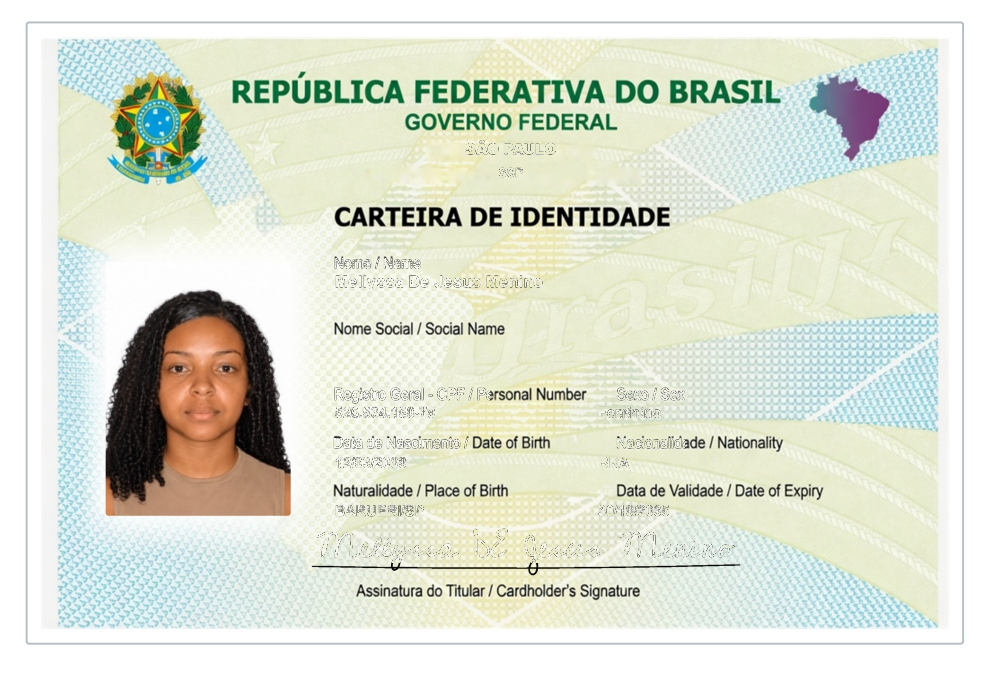
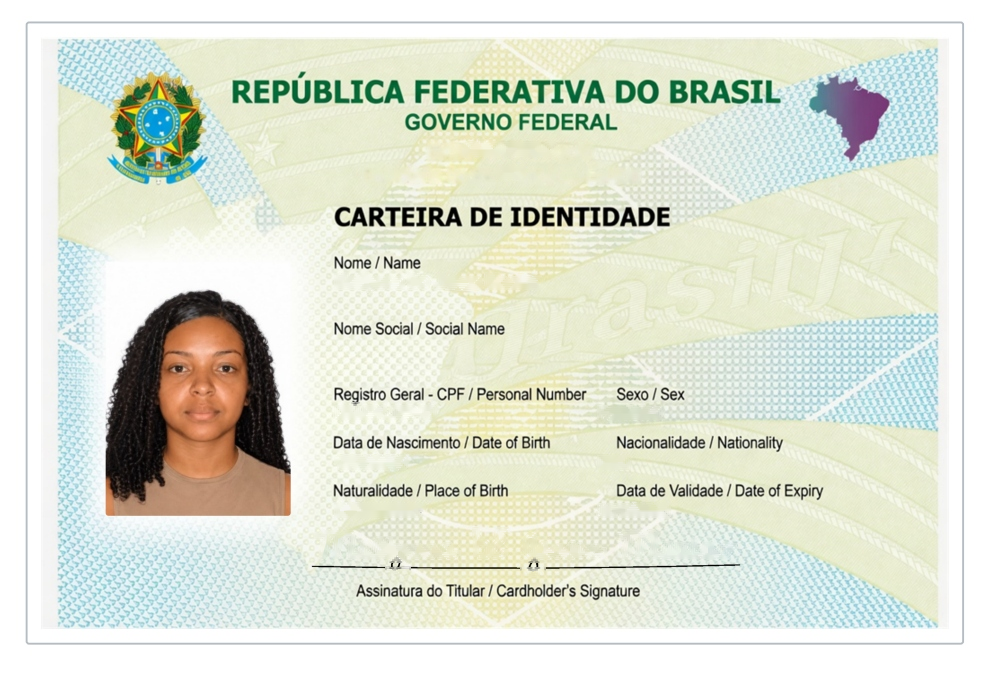
fix(rg): templates limpos sem texto fantasma, campos alinhados ao modelo oficial

diff --git a/criar-rg.html b/criar-rg.html
@@ -479,10 +479,10 @@
         /* Foto 3x4 Frente */
         #cfPhoto {
             position: absolute;
-            top: 260px;
-            left: 106px;
-            width: 184px;
-            height: 245px;
+            top: 262px;
+            left: 105px;
+            width: 186px;
+            height: 254px;
             object-fit: cover;
             z-index: 5;
             box-shadow: 0 0 0 1px rgba(0,0,0,0.15);
@@ -517,46 +517,46 @@
 
         /* Posições Cirúrgicas dos Campos da Frente (Escala 989x685) */
         #cfUf { top: 139px; left: 420px; width: 150px; font-size: 15px; font-weight: 800; text-align: center; text-transform: uppercase; }
-        #cfSsp { top: 164px; left: 450px; width: 90px; font-size: 13px; font-weight: 800; text-align: center; text-transform: uppercase; }
+        #cfSsp { top: 166px; left: 450px; width: 90px; font-size: 13px; font-weight: 800; text-align: center; text-transform: uppercase; }
         #cfNome { top: 275px; left: 334px; width: 440px; font-size: 18px; }
         #cfNomeSocial { top: 335px; left: 334px; width: 440px; font-size: 16px; }
-        #cfCpf { top: 399px; left: 334px; width: 250px; font-size: 16.5px; }
-        #cfSexo { top: 399px; left: 605px; width: 140px; font-size: 16.5px; }
-        #cfNasc { top: 454px; left: 334px; width: 250px; font-size: 16.5px; }
-        #cfNac { top: 454px; left: 605px; width: 140px; font-size: 16.5px; }
-        #cfNat { top: 520px; left: 334px; width: 250px; font-size: 16.5px; text-transform: uppercase; }
-        #cfVal { top: 520px; left: 605px; width: 140px; font-size: 16.5px; }
+        #cfCpf { top: 402px; left: 334px; width: 250px; font-size: 16.5px; }
+        #cfSexo { top: 402px; left: 598px; width: 140px; font-size: 16.5px; }
+        #cfNasc { top: 453px; left: 334px; width: 250px; font-size: 16.5px; }
+        #cfNac { top: 453px; left: 598px; width: 140px; font-size: 16.5px; }
+        #cfNat { top: 502px; left: 334px; width: 250px; font-size: 16.5px; text-transform: uppercase; }
+        #cfVal { top: 502px; left: 598px; width: 140px; font-size: 16.5px; }
 
         /* Posições do Verso (Escala 989x685) */
         #cvQrBox {
             position: absolute;
-            top: 110px;
-            left: 110px;
-            width: 175px;
-            height: 175px;
+            top: 104px;
+            left: 46px;
+            width: 212px;
+            height: 192px;
             background: #ffffff;
             display: flex;
             align-items: center;
             justify-content: center;
             z-index: 5;
-            padding: 4px;
+            padding: 0;
             box-sizing: border-box;
-            border: 1px solid #cbd5e1;
         }
-        #cvPai { top: 114px; left: 325px; width: 480px; font-size: 14.5px; font-weight: 700; text-transform: uppercase; }
-        #cvMae { top: 138px; left: 325px; width: 480px; font-size: 14.5px; font-weight: 700; text-transform: uppercase; }
-        #cvOrgao { top: 202px; left: 325px; width: 200px; font-size: 14.5px; font-weight: 700; }
-        #cvLocal { top: 256px; left: 325px; width: 240px; font-size: 14.5px; font-weight: 700; text-transform: uppercase; }
-        #cvEmissao { top: 256px; left: 605px; width: 180px; font-size: 14.5px; font-weight: 700; }
+        #cvQrBox img, #cvQrBox canvas { height: 188px !important; width: 188px !important; }
+        #cvPai { top: 82px; left: 300px; width: 480px; font-size: 15px; font-weight: 700; text-transform: uppercase; }
+        #cvMae { top: 108px; left: 300px; width: 480px; font-size: 15px; font-weight: 700; text-transform: uppercase; }
+        #cvOrgao { top: 247px; left: 300px; width: 200px; font-size: 15px; font-weight: 700; }
+        #cvLocal { top: 356px; left: 300px; width: 240px; font-size: 14px; font-weight: 700; text-transform: uppercase; }
+        #cvEmissao { top: 356px; left: 678px; width: 180px; font-size: 14px; font-weight: 700; }
         #cvMrz {
             position: absolute;
-            top: 462px;
-            left: 95px;
-            width: 800px;
+            top: 562px;
+            left: 46px;
+            width: 900px;
             font-family: 'Share Tech Mono', 'Courier New', monospace;
-            font-size: 21px;
-            line-height: 1.35;
-            letter-spacing: 4px;
+            font-size: 26px;
+            line-height: 31px;
+            letter-spacing: 12.5px;
             font-weight: 700;
             color: #000000;
             white-space: pre;
